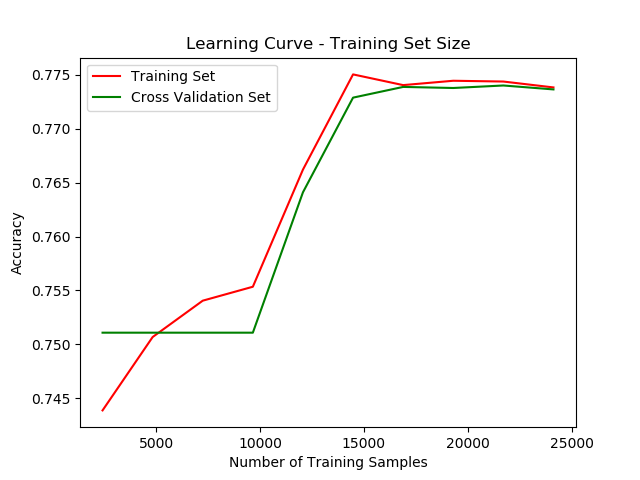
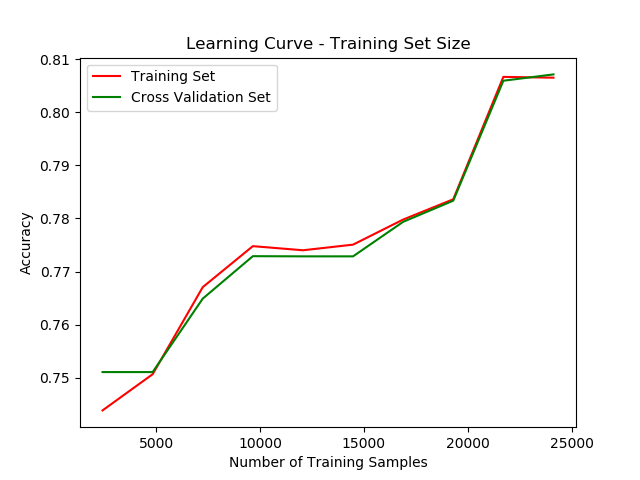
adding wine neural network

diff --git a/solution/classifiers/census_neural_network.py b/solution/classifiers/census_neural_network.py
@@ -26,13 +26,21 @@ df = pd.read_csv(os.path.join(DATA_PATH, CSV_FILENAME))
 df = CensusDataLoader(df).apply_pipeline()
 
 # These are subject to change based on pre-processing
+# feature_cols = ['age_num', 'education-num', 'marital-status_Single',
+#                 'hours-per-week', 'capital-gain',
+#                 'capital-loss']
 feature_cols = ['age_num', 'education-num', 'marital-status_Single',
                 'hours-per-week', 'capital-gain',
-                'capital-loss']
+                'capital-loss', 'sex_Male', 'from_united_states']
 
 kfold = KFold(n_splits=5)
-cls = MLPClassifier(solver='sgd', alpha=.001, hidden_layer_sizes=(20, 5), random_state=0, activation='logistic',
-                    max_iter=2000)
+cls = MLPClassifier(
+    solver='sgd',
+    alpha=.001,
+    hidden_layer_sizes=(100,),
+    random_state=0,
+    activation='logistic',
+    max_iter=2000)
 
 # Plot the learning curve vs train size.
 # Helps determine the train vs test split split ratio
@@ -44,8 +52,6 @@ helpers.plot_learning_curve_vs_train_size(
     output_location='census_output/neural_net_num_samples_learning_curve.png'
 )
 
-print('b')
-
 x_train, x_test, y_train, y_test = train_test_split(
     df[feature_cols],
     df['income_num'],
@@ -53,39 +59,20 @@ x_train, x_test, y_train, y_test = train_test_split(
     test_size=0.35
 )
 
-# Plot the learning curve for max depth vs mean test score
-# helpers.plot_learning_curve_vs_param(
-#     cls,
-#     x_train,
-#     y_train,
-#     param_grid={
-#         'random_state': [0],
-#         'solver': ['sgd'],
-#         'activation': ['logistic'],
-#         'hidden_layer_sizes': ''
-#     },
-#     cv=5,
-#     measure_type='mean_test_score',
-#     output_location='census_output/neural_net_depth_learning_curve.png'
-# )
-
 # Find the best model via GridSearchCV
 grid_search = GridSearchCV(
-    estimator=cls,
+    estimator=MLPClassifier(solver='sgd', random_state=0, activation='logistic', max_iter=1000),
     param_grid={
-        'solver': ['sgd'],
-        'alpha': [1e-5],
-        'hidden_layer_sizes': [(20, 5)],
-        'random_state': [0],
-        'activation': ['logistic']
+        'alpha': [1e-5, 1e-4, 1e-3],
+        'hidden_layer_sizes': [(100,), (20, 5)]
     },
-    cv=kfold
+    cv=5
 )
 
 grid_search.fit(x_train, y_train)
 
-# print(grid_search.best_score_)
-# print(grid_search.best_params_)
+print(grid_search.best_score_)
+print(grid_search.best_params_)
 
 # train the best model
 best_model = grid_search.best_estimator_
@@ -95,7 +82,7 @@ best_model.fit(x_train, y_train)
 y_pred = best_model.predict(x_test)
 
 helpers.produce_model_performance_summary(
-    cls,
+    best_model,
     x_test,
     y_test,
     y_pred,

diff --git a/solution/classifiers/wine_neural_network.py b/solution/classifiers/wine_neural_network.py
@@ -1,0 +1,83 @@
+import os
+import sys
+
+# a way to get around relative imports outside of this package
+sys.path.append(os.path.dirname(os.path.dirname(os.path.dirname(os.path.realpath(__file__)))))
+
+import pandas as pd
+import numpy as np
+from sklearn.model_selection import KFold, train_test_split
+from sklearn.model_selection import GridSearchCV
+from sklearn.neural_network import MLPClassifier
+
+from solution.classifiers import helpers
+from solution.preprocessors.data_loader import WineDataLoader
+
+RUN_PATH = os.path.dirname(os.path.dirname(os.path.realpath(__file__)))
+DATA_PATH = os.path.join(RUN_PATH, "data")
+CSV_FILENAME = "winequality-red.csv"
+
+df = pd.read_csv(os.path.join(DATA_PATH, CSV_FILENAME))
+df = WineDataLoader(df).apply_pipeline()
+
+# These are subject to change based on preprocessing
+feature_cols = ['fixed acidity', 'volatile acidity', 'citric acid', 'residual sugar', 'chlorides',
+                'free sulfur dioxide', 'total sulfur dioxide', 'density', 'pH', 'sulphates', 'alcohol']
+
+kfold = KFold(n_splits=3)
+cls = MLPClassifier(
+    solver='sgd',
+    alpha=1e-6,
+    hidden_layer_sizes=(200,),
+    random_state=0,
+    activation='logistic',
+    max_iter=2000)
+
+# Plot the learning curve vs train size.
+# Helps determine the train vs test split split ratio
+helpers.plot_learning_curve_vs_train_size(
+    cls,
+    df,
+    feature_cols,
+    'quality_num',
+    output_location='wine_output/neural_net_num_samples_learning_curve.png'
+)
+
+x_train, x_test, y_train, y_test = train_test_split(
+    df[feature_cols],
+    df['quality_num'],
+    random_state=0,
+    test_size=0.35
+)
+
+# Find the best model via GridSearchCV
+grid_search = GridSearchCV(
+    estimator=MLPClassifier(solver='sgd', random_state=0, activation='logistic', max_iter=2000),
+    param_grid={
+        'alpha': [1e-6, 1e-5, 1e-4, 1e-3],
+        'hidden_layer_sizes': [(200,), (100,), (20, 5)]
+    },
+    cv=3
+)
+
+grid_search.fit(x_train, y_train)
+
+print(grid_search.best_score_)
+print(grid_search.best_params_)
+
+# train the best model
+best_model = grid_search.best_estimator_
+best_model.fit(x_train, y_train)
+
+# Predict income with the trained best model
+y_pred = best_model.predict(x_test)
+
+helpers.produce_model_performance_summary(
+    best_model,
+    x_test,
+    y_test,
+    y_pred,
+    output_location='wine_output/neural_net_summary.txt',
+    cv=kfold,
+    scoring='accuracy'
+)

diff --git a/solution/classifiers/census_decision_tree.py b/solution/classifiers/census_decision_tree.py
@@ -83,9 +83,6 @@ helpers.plot_learning_curve_vs_param(
         'random_state': [0],
         'criterion': ['entropy'],
         'max_depth': range(3, 16),
-        # 'max_leaf_nodes': range(5, 17),
-        # 'min_samples_leaf': range(100, 1000, 100),
-        # 'min_impurity_decrease': [0.009, 0.1]
     },
     cv=5,
     measure_type='mean_test_score',
@@ -100,8 +97,6 @@ grid_search = GridSearchCV(
         'criterion': ['entropy'],
         'max_depth': range(3, 16),
         'max_leaf_nodes': range(5, 17),
-        # 'min_samples_leaf': range(100, 1000, 100),
-        # 'min_impurity_decrease': [0.009, 0.1]
     },
     cv=kfold
 )
